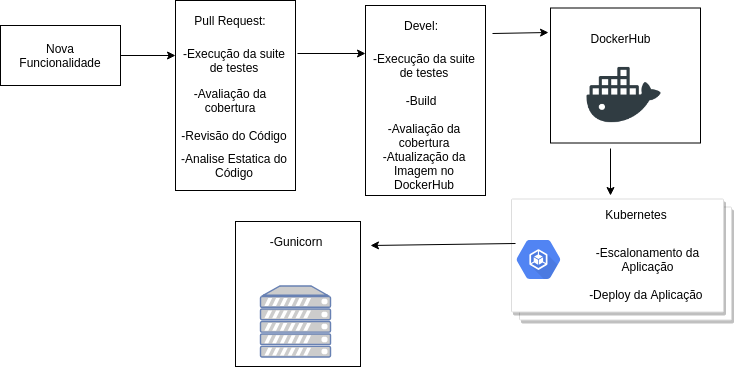
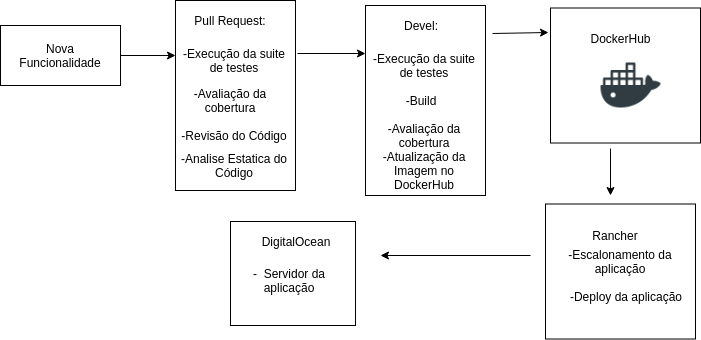
Atualing architeture pipeline

diff --git a/docs/docarquitetura.html b/docs/docarquitetura.html
@@ -140,7 +140,7 @@
                                             <td>01/10/2018</td>
                                             <td>0.12</td>
                                             <td>Atualizando o diagrama de relações,
-                                                Atualizando o diagrama react/expo/microsserviços</td>
+                                                Atualizando o diagrama react/expo/microsserviços, Atualizando pipeline de arquitetura</td>
                                             <td>Mateus Roriz</td>
                                         </tr>
 
